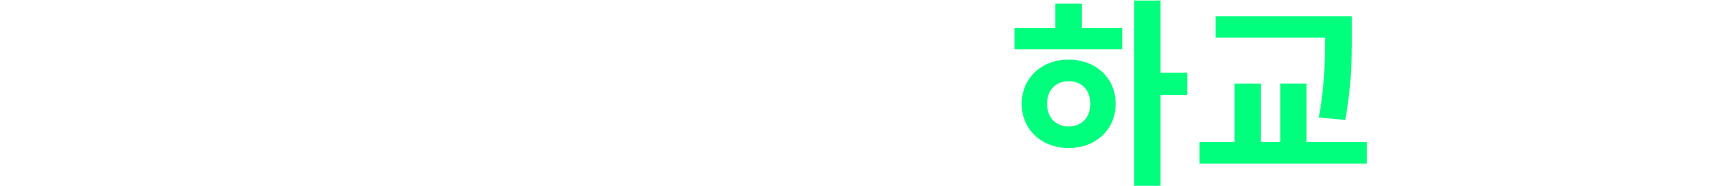
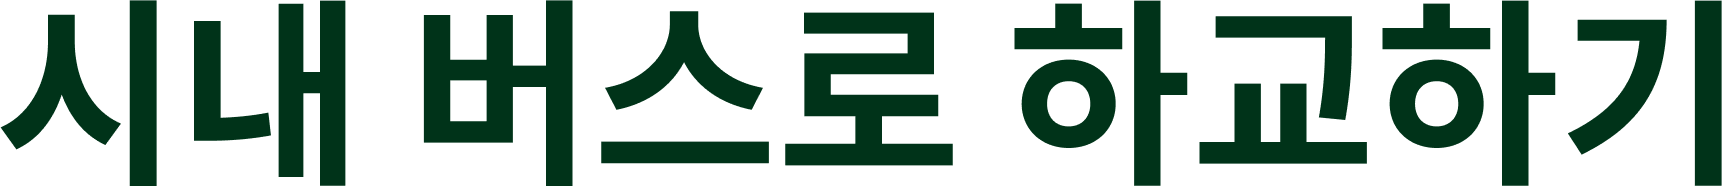
Change city, Shuttlebus Cards design

diff --git a/src/components/Shuttlebus/ShuttlebusByeSchool.vue b/src/components/Shuttlebus/ShuttlebusByeSchool.vue
@@ -1,7 +1,8 @@
 <template>
-  <v-img :style="ShuttlebusByeSchoolTitle()" :src="ShuttlebusByeSchool"/>
   <v-layout>
-    <v-card :style="ShuttlebusByeSchoolCard()"/>
+    <v-card :style="ShuttlebusByeSchoolCard()">
+      <v-img :style="ShuttlebusByeSchoolTitle()" :src="ShuttlebusByeSchool"/>
+    </v-card>
   </v-layout>
 </template>
 
@@ -21,25 +22,24 @@ export default {
       ShuttlebusByeSchool: new URL(`/src/assets/ShuttlebusByeSchool.png`, import.meta.url).href
     };
   },
-  methods:{
-    ShuttlebusByeSchoolTitle(){
-      return{
-        bottom: '190px',
-        width: '600px',
-        top: '5px',
+  methods: {
+    ShuttlebusByeSchoolCard() {
+      return {
+        top: '20px',
+        width: '1000px',
+        height: '600px',
+        margin: 'auto',
+        borderRadius: '40px',
+        boxShadow: '0px 0px 30px #00000060'
+      };
+    },
+    ShuttlebusByeSchoolTitle() {
+      return {
+        width: '350px',
+        top: '50px',
         margin: 'auto'
       };
     },
-    ShuttlebusByeSchoolCard(){
-      return{
-        top: '100px',
-        width: '700px',
-        height: '400px',
-        margin: 'auto',
-        borderRadius: '60px',
-        boxShadow: '0px 0px 30px #000000'
-      };
-    }
   }
 }
 </script>

diff --git a/src/components/Shuttlebus/ShuttlebusGoSchool.vue b/src/components/Shuttlebus/ShuttlebusGoSchool.vue
@@ -1,7 +1,8 @@
 <template>
-  <v-img :style="ShuttlebusGoSchoolTitle()" :src="ShuttlebusGoSchool"/>
   <v-layout>
-    <v-card :style="ShuttlebusGoSchoolCard()"/>
+    <v-card :style="ShuttlebusGoSchoolCard()">
+      <v-img :style="ShuttlebusGoSchoolTitle()" :src="ShuttlebusGoSchool"/>
+    </v-card>
   </v-layout>
 </template>
 
@@ -21,25 +22,24 @@ export default {
       ShuttlebusGoSchool: new URL(`/src/assets/ShuttlebusGoSchool.png`, import.meta.url).href
     };
   },
-  methods:{
-    ShuttlebusGoSchoolTitle(){
-      return{
-        bottom: '190px',
-        width: '600px',
-        top: '5px',
+  methods: {
+    ShuttlebusGoSchoolCard() {
+      return {
+        top: '20px',
+        width: '1000px',
+        height: '600px',
+        margin: 'auto',
+        borderRadius: '40px',
+        boxShadow: '0px 0px 30px #00000060'
+      };
+    },
+    ShuttlebusGoSchoolTitle() {
+      return {
+        width: '350px',
+        top: '50px',
         margin: 'auto'
       };
     },
-    ShuttlebusGoSchoolCard(){
-      return{
-        top: '100px',
-        width: '700px',
-        height: '400px',
-        margin: 'auto',
-        borderRadius: '60px',
-        boxShadow: '0px 0px 30px #000000'
-      };
-    }
   }
 }
 </script>

diff --git a/src/components/Citybus/CitybusGoSchool.vue b/src/components/Citybus/CitybusGoSchool.vue
@@ -1,7 +1,8 @@
 <template>
-  <v-img :style="CitybusGoSchoolTitle()" :src="CitybusGoSchool"/>
   <v-layout>
-    <v-card :style="CitybusGoSchoolCard()"/>
+    <v-card :style="CitybusGoSchoolCard()">
+      <v-img :style="CitybusGoSchoolTitle()" :src="CitybusGoSchool"/>
+    </v-card>
   </v-layout>
 </template>
 
@@ -21,25 +22,24 @@ export default {
       CitybusGoSchool: new URL(`/src/assets/CitybusGoSchool.png`, import.meta.url).href
     };
   },
-  methods:{
-    CitybusGoSchoolTitle(){
-      return{
-        bottom: '190px',
-        width: '600px',
-        top: '5px',
+  methods: {
+    CitybusGoSchoolCard() {
+      return {
+        top: '20px',
+        width: '1000px',
+        height: '600px',
+        margin: 'auto',
+        borderRadius: '40px',
+        boxShadow: '0px 0px 30px #00000060'
+      };
+    },
+    CitybusGoSchoolTitle() {
+      return {
+        width: '350px',
+        top: '50px',
         margin: 'auto'
       };
     },
-    CitybusGoSchoolCard(){
-      return{
-        top: '100px',
-        width: '700px',
-        height: '400px',
-        margin: 'auto',
-        borderRadius: '60px',
-        boxShadow: '0px 0px 30px #000000'
-      };
-    }
   }
 }
 </script>

diff --git a/src/components/Citybus/CitybusByeSchool.vue b/src/components/Citybus/CitybusByeSchool.vue
@@ -1,7 +1,8 @@
 <template>
-  <v-img :style="CitybusByeSchoolTitle()" :src="CitybusByeSchool"/>
   <v-layout>
-    <v-card :style="CitybusByeSchoolCard()"/>
+    <v-card :style="CitybusByeSchoolCard()">
+      <v-img :style="CitybusByeSchoolTitle()" :src="CitybusByeSchool"/>
+    </v-card>
   </v-layout>
 </template>
 
@@ -22,24 +23,23 @@ export default {
     };
   },
   methods: {
+    CitybusByeSchoolCard() {
+      return {
+        top: '20px',
+        width: '1000px',
+        height: '600px',
+        margin: 'auto',
+        borderRadius: '40px',
+        boxShadow: '0px 0px 30px #00000060'
+      };
+    },
     CitybusByeSchoolTitle() {
       return {
-        bottom: '190px',
-        width: '600px',
-        top: '5px',
+        width: '350px',
+        top: '50px',
         margin: 'auto'
       };
     },
-    CitybusByeSchoolCard(){
-      return{
-        top: '100px',
-        width: '700px',
-        height: '400px',
-        margin: 'auto',
-        borderRadius: '60px',
-        boxShadow: '0px 0px 30px #000000'
-      };
-    }
   }
 }
 </script>

diff --git a/src/components/News/TransportationNews.vue b/src/components/News/TransportationNews.vue
@@ -38,13 +38,13 @@ export default {
         width: '1000px',
         height: '600px',
         margin: 'auto',
-        borderRadius: '60px',
+        borderRadius: '40px',
         boxShadow: '0px 0px 30px #00000060'
       };
     },
     TransportationNewsTitle() {
       return {
-        width: '250px',
+        width: '200px',
         top: '50px',
         margin: 'auto'
       };

diff --git a/src/components/News/DeveloperNews.vue b/src/components/News/DeveloperNews.vue
@@ -38,7 +38,7 @@ export default {
         width: '1000px',
         height: '600px',
         margin: 'auto',
-        borderRadius: '60px',
+        borderRadius: '40px',
         boxShadow: '0px 0px 30px #00000060'
       };
     },

diff --git a/src/components/News/Question.vue b/src/components/News/Question.vue
@@ -38,7 +38,7 @@ export default {
         width: '1000px',
         height: '600px',
         margin: 'auto',
-        borderRadius: '60px',
+        borderRadius: '40px',
         boxShadow: '0px 0px 30px #00000060'
       };
     },
